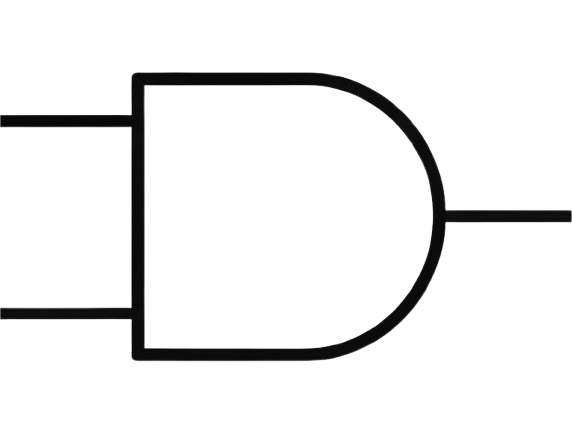
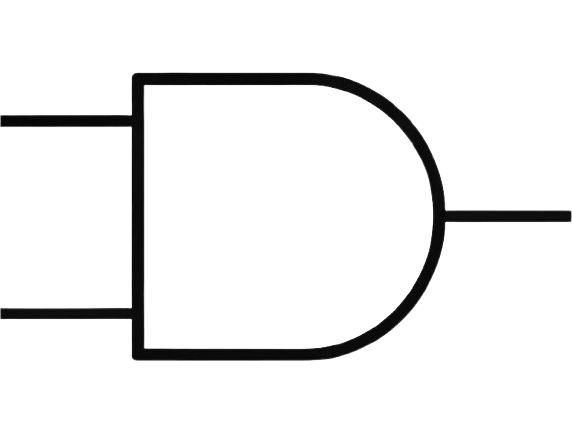
solved removed bg

diff --git a/lib/src/features/core/simulator/nodewidget/nodewidget.dart b/lib/src/features/core/simulator/nodewidget/nodewidget.dart
@@ -17,76 +17,62 @@ class NodeWidget extends StatelessWidget {
     const double portRadius = 5; // adjust depende sa size ng PortCircle
 
     return Material(
-      child: Container(
-        decoration: BoxDecoration(
-          color: Colors.white,
-
-          boxShadow: portRadius > 0
-              ? [
-                  BoxShadow(
-                    color: Colors.white, // FIX
-                    blurRadius: 4,
-                    offset: const Offset(2, 2),
-                  ),
-                ]
-              : null,
-        ),
-
-        child: Stack(
-          children: [
-            Center(
-              child: Image.asset(
-                'assets/images/${node.label}.png',
-                height: 63,
-                width: 100,
-                color: _getGateColor(node),
-                colorBlendMode: BlendMode.srcIn,
-                errorBuilder: (context, error, stackTrace) {
-                  print("IMAGE ERROR: $error");
-                  return const Icon(Icons.error);
-                },
-              ),
+      color: Colors.transparent,
+      child: Stack(
+        children: [
+          Center(
+            child: Image.asset(
+              'assets/images/${node.label}.png',
+              height: 63,
+              width: 100,
+              fit: BoxFit.contain,
+              color: _getGateColor(node),
+              colorBlendMode: BlendMode.srcIn,
+              errorBuilder: (context, error, stackTrace) {
+                print("IMAGE ERROR: $error");
+                return const Icon(Icons.error);
+              },
             ),
-            // ports
-            for (final port in node.ports.values)
-              Positioned(
-                left: port.localOffset.dx,
-                top: port.localOffset.dy,
-                child: GestureDetector(
-                  onPanStart: (d) {
-                    // if starting from output start connection
-                    if (port.type == PortType.output) {
-                      final gpos = (context.findRenderObject() as RenderBox)
-                          .localToGlobal(
-                            port.localOffset +
-                                node.position +
-                                const Offset(portRadius, portRadius),
-                          );
-                    }
-                  },
-                  onPanUpdate: (d) {
+          ),
+          // ports
+          for (final port in node.ports.values)
+            Positioned(
+              left: port.localOffset.dx,
+              top: port.localOffset.dy,
+              child: GestureDetector(
+                onPanStart: (d) {
+                  // if starting from output start connection
+                  if (port.type == PortType.output) {
                     final gpos = (context.findRenderObject() as RenderBox)
                         .localToGlobal(
                           port.localOffset +
                               node.position +
                               const Offset(portRadius, portRadius),
                         );
-                  },
-                  onPanEnd: (d) {
-                    // finish by checking nearest input at release
-                    // We'll rely on global gesture detection in parent; do nothing here
-                  },
-                  onTap: () {
-                    // toggle switches by tapping their output port (switch behavior)
-                    if (node.kind == 'SWITCH' && port.type == PortType.output) {
-                      model.toggleSwitch(node.id);
-                    }
-                  },
-                  child: PortCircle(port: port),
-                ),
+                  }
+                },
+                onPanUpdate: (d) {
+                  final gpos = (context.findRenderObject() as RenderBox)
+                      .localToGlobal(
+                        port.localOffset +
+                            node.position +
+                            const Offset(portRadius, portRadius),
+                      );
+                },
+                onPanEnd: (d) {
+                  // finish by checking nearest input at release
+                  // We'll rely on global gesture detection in parent; do nothing here
+                },
+                onTap: () {
+                  // toggle switches by tapping their output port (switch behavior)
+                  if (node.kind == 'SWITCH' && port.type == PortType.output) {
+                    model.toggleSwitch(node.id);
+                  }
+                },
+                child: PortCircle(port: port),
               ),
-          ],
-        ),
+            ),
+        ],
       ),
     );
   }

diff --git a/lib/src/features/core/simulator/widgetts/main.dart b/lib/src/features/core/simulator/widgetts/main.dart
@@ -3,7 +3,6 @@ import 'package:get/get_core/src/get_main.dart';
 import 'package:get/get_instance/src/extension_instance.dart';
 import 'package:get/get_navigation/get_navigation.dart';
 import 'package:studydesign2zzdatabaseplaylist/achievementui/achievement_manager.dart';
-import 'package:studydesign2zzdatabaseplaylist/assessment/whitescreen/whitescreen.dart';
 import 'package:studydesign2zzdatabaseplaylist/src/features/core/screens/dashboard/dashboard.dart';
 import 'package:studydesign2zzdatabaseplaylist/src/features/core/simulator/nodewidget/nodewidget.dart';
 import 'package:studydesign2zzdatabaseplaylist/src/features/core/simulator/pageController.dart';